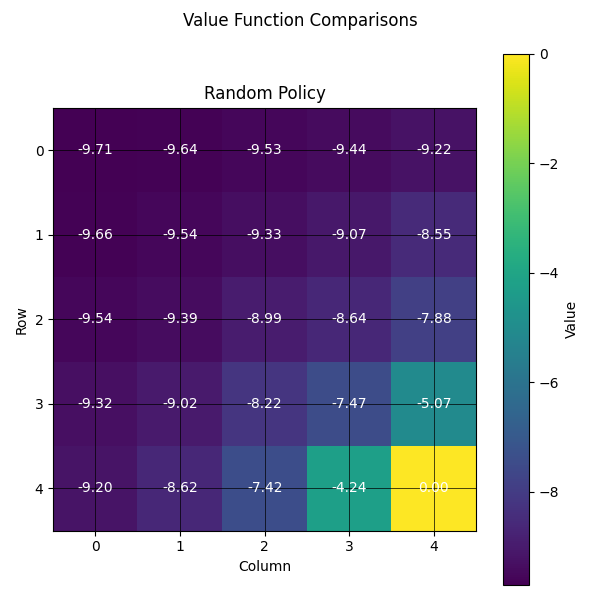
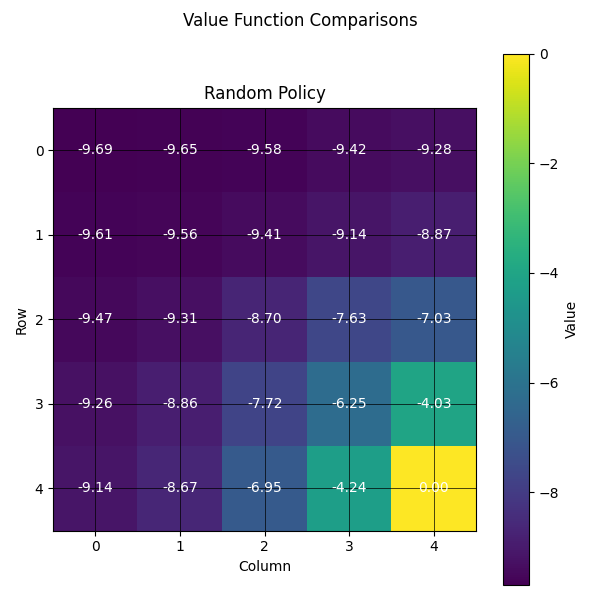
sarsa

diff --git a/1_foundations/4_Temporal_Difference/TD/SARSA.py b/1_foundations/4_Temporal_Difference/TD/SARSA.py
@@ -1,0 +1,64 @@
+import numpy as np
+from collections import defaultdict
+from utils.policy import PolicySelection
+
+class SARSA:
+    def __init__(self, env, policy, alpha=0.1, gamma=0.9):
+        self.env = env
+        self.alpha = alpha
+        self.gamma = gamma
+        self.num_action = len(self.env.action_space)
+        self.Q = defaultdict(lambda: np.zeros(self.num_action))
+        self.policy=policy
+        self.policy_selector = PolicySelection(
+            action_space=self.env.action_space,
+            policy_type=policy,
+            epsilon=0.9
+        )
+
+    
+    def action_selector(self, state, policy_type, Q_value=None):
+        return self.policy_selector.select_action(state, policy_type, Q_value)
+        
+    def gen_episode(self, policy_type):
+        """Generate an episode using the specified policy type."""
+        episode = []
+        state = self.env.reset()
+        action_idx = self.action_selector(state, policy_type, self.Q)  
+        while True:
+            next_state, reward, done = self.env.step(action_idx)  
+            if done:
+                episode.append((state, next_state, action_idx, None, reward))
+                break
+            else:
+                next_action_idx = self.action_selector(next_state, policy_type, self.Q)
+                episode.append((state, next_state, action_idx, next_action_idx, reward))
+                state = next_state  
+                action_idx = next_action_idx  
+        return episode
+
+    
+    def sarsa(self, num_episode=1000):
+        for _ in range(num_episode):
+            episode = self.gen_episode(policy_type=self.policy)
+            for t in range(len(episode)):
+                state, next_state, action_idx, next_action_idx, reward = episode[t]
+                if next_action_idx is None:
+                    target = reward
+                else:
+                    target = reward + self.gamma * self.Q[next_state][next_action_idx]
+                self.Q[state][action_idx] += self.alpha * (target - self.Q[state][action_idx])
+        return self.Q
+    
+    def print_q_policy(self):
+        """Print the policy as a grid with arrows."""
+        grid_size = self.env.size
+        action_map = {0: '↑', 1: '↓', 2: '→', 3: '←'} 
+        for row in range(grid_size):
+            row_str = []
+            for col in range(grid_size):
+                state = (row, col)
+                best_action_idx = np.argmax(self.Q[state])
+                row_str.append(action_map[best_action_idx])
+            print(" | ".join(row_str))
+        print("-" * (4 * grid_size))

diff --git a/1_foundations/4_Temporal_Difference/run_sarsa.py b/1_foundations/4_Temporal_Difference/run_sarsa.py
@@ -1,0 +1,70 @@
+import os
+import sys
+import numpy as np
+import matplotlib.pyplot as plt
+
+sys.path.append(os.path.abspath(os.path.join(os.path.dirname(__file__), '..')))
+
+from utils.env import Enviornment  
+from TD.SARSA import SARSA
+
+os.makedirs("Results", exist_ok=True)
+
+
+def grid_from_q(Q, size=5):
+    grid = np.full((size, size), -np.inf)
+    grid = np.zeros((size, size))  # Initialize with zeros
+    for state, q_values in Q.items():
+        r, c = state
+        grid[r, c] = np.max(q_values)  # V(s) = max_a Q(s, a)
+    return grid
+
+
+def run_sarsa(env, policy, num_episodes=1000, alpha=0.1, gamma=0.9):
+    """
+    Run TD prediction and return the value function as a grid.
+    """
+    sarsa_instance = SARSA(env=env, policy=policy, alpha=alpha, gamma=gamma)
+    Q = sarsa_instance.sarsa(num_episode=num_episodes)
+    grid = grid_from_q(Q, size=env.size)
+    sarsa_instance.print_q_policy()
+    return grid
+
+
+def plot_grid(ax, grid, title):
+    """
+    Visualize the state-value grid with the annotations.
+    """
+    image = ax.imshow(grid, cmap="viridis", interpolation="nearest")
+    ax.set_title(title)
+    ax.set_xlabel('Column')
+    ax.set_ylabel('Row')
+    ax.grid(True, which='both', color='black', linestyle='-', linewidth=0.5)
+    ax.set_xticks(np.arange(grid.shape[1]))
+    ax.set_yticks(np.arange(grid.shape[0]))
+    for i in range(grid.shape[0]):
+        for j in range(grid.shape[1]):
+            ax.text(j, i, f"{grid[i, j]:.2f}", ha='center', va='center', color='white')
+    plt.colorbar(image, ax=ax, label='Value')
+
+if __name__ == "__main__":
+    size = 5
+    env = Enviornment(size=size)
+
+    val_grids = {}
+
+    val_grids["e-greedy policy"] = run_sarsa(
+        env, policy="e-greedy", num_episodes=1000, alpha=0.1, gamma=0.9
+    )
+
+    num_plots = len(val_grids)
+    fig, axes = plt.subplots(1, num_plots, figsize=(6 * num_plots, 6))
+    if num_plots == 1:
+        axes = [axes]  
+    for ax, (method, grid) in zip(axes, val_grids.items()):
+        plot_grid(ax, grid, method)
+    fig.suptitle("SARSA State-Value Function")
+    fig.tight_layout()
+    plt.savefig("Results/SARSA_Value_Function.png")
+    plt.show()
+    
